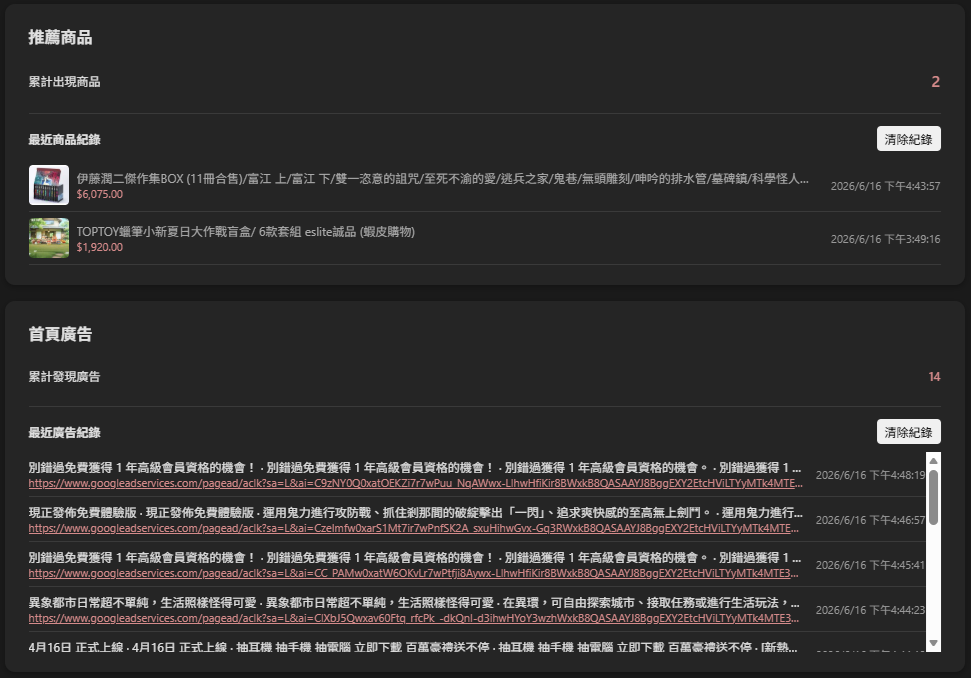
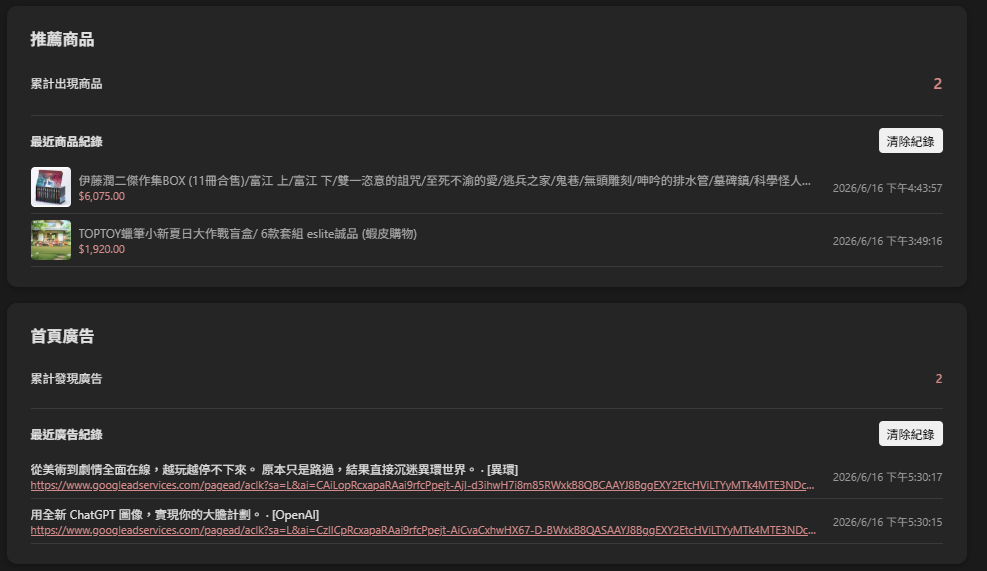
更新展示圖

diff --git a/script/content-script.js b/script/content-script.js
@@ -803,6 +803,7 @@
     ];
     const recordedHomeAds = new Set();
     const getHomeAdInfo = (el) => {
+        const seen = new Set();
         const textParts = [];
         const linkEl = el.querySelector('a[href*="googleadservices"]');
         const url = linkEl ? linkEl.href : '';
@@ -811,7 +812,7 @@
             const headlineLinks = metadata.querySelectorAll('.ytAttributedStringLink');
             for (const a of headlineLinks) {
                 const t = a.textContent.trim();
-                if (t) textParts.push(t);
+                if (t && !seen.has(t)) { seen.add(t); textParts.push(t); }
             }
             const detailLine = metadata.querySelector('ad-details-line-view-model');
             if (detailLine) {